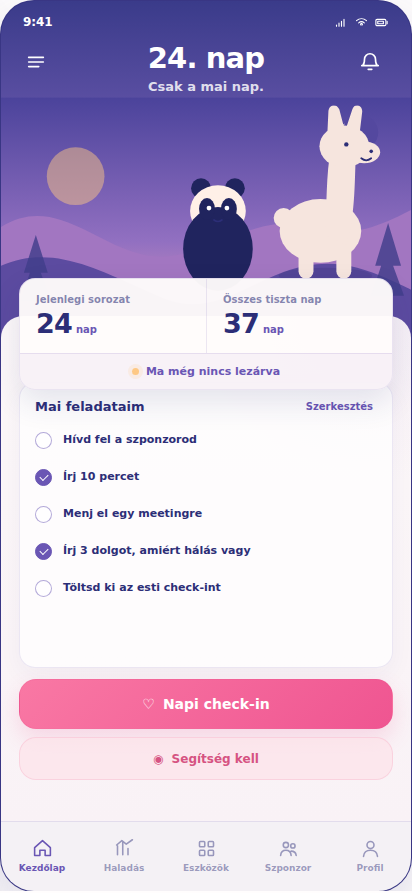
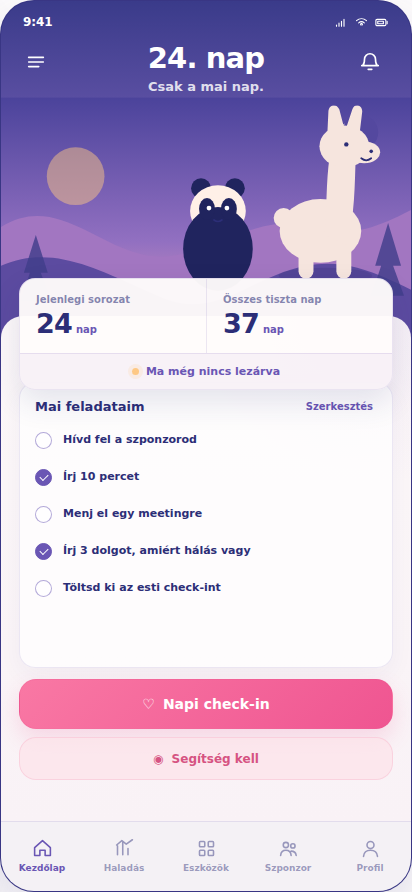
fix: strengthen Hajnal prototype semantics and evidence

diff --git a/docs/prototypes/hajnal_ui.html b/docs/prototypes/hajnal_ui.html
@@ -67,6 +67,12 @@
       color: inherit;
     }
 
+    button:focus-visible,
+    input:not(.native-control):focus-visible {
+      outline: 3px solid rgba(106, 86, 180, .62);
+      outline-offset: 3px;
+    }
+
     .prototype-page {
       min-width: max-content;
       padding: 48px 48px 88px;
@@ -75,10 +81,10 @@
     .prototype-brand {
       width: min(980px, calc(100vw - 96px));
       min-width: 720px;
-      display: grid;
-      grid-template-columns: 112px minmax(0, 1fr);
-      align-items: center;
-      gap: 28px;
+      display: flex;
+      flex-direction: column;
+      align-items: flex-start;
+      gap: 18px;
       margin-bottom: 34px;
     }
 
@@ -186,6 +192,15 @@
 
     .screen-label strong {
       color: var(--hajnal-navy);
+    }
+
+    .screen-route-note {
+      margin-left: auto;
+      color: rgba(44, 46, 119, .52);
+      font-size: 10px;
+      letter-spacing: 0;
+      text-transform: none;
+      white-space: nowrap;
     }
 
     .screen-index {
@@ -512,19 +527,6 @@
       z-index: 2;
     }
 
-    .splash-route-note {
-      position: absolute;
-      z-index: 9;
-      left: 50%;
-      bottom: 30px;
-      transform: translateX(-50%);
-      color: rgba(255, 255, 255, .78);
-      font-size: 11px;
-      font-weight: 700;
-      letter-spacing: .03em;
-      white-space: nowrap;
-    }
-
     .welcome-screen {
       display: flex;
       flex-direction: column;
@@ -671,6 +673,14 @@
       pointer-events: none;
     }
 
+    .choice-row:has(.native-control:focus-visible),
+    .consent-row:has(.native-control:focus-visible),
+    .toggle-row:has(.native-control:focus-visible),
+    .task-row:has(.native-control:focus-visible) {
+      outline: 3px solid rgba(106, 86, 180, .62);
+      outline-offset: 2px;
+    }
+
     .checkbox-visual,
     .radio-visual {
       width: 23px;
@@ -815,7 +825,13 @@
       display: grid;
       place-items: center;
       justify-self: center;
+      padding: 0;
+      border: 0;
       border-radius: 50%;
+      background: transparent;
+      color: inherit;
+      font: inherit;
+      cursor: pointer;
     }
 
     .calendar-day.muted {
@@ -998,13 +1014,23 @@
       margin-top: 4px;
       padding: 0;
       border: 0;
-      outline: 0;
       background: transparent;
       color: var(--hajnal-navy);
       font-size: 12px;
       line-height: 1.25;
       font-weight: 680;
       text-align: left;
+    }
+
+    .compact-field:focus-within {
+      border-color: rgba(106, 86, 180, .56);
+      outline: 3px solid rgba(106, 86, 180, .42);
+      outline-offset: 1px;
+    }
+
+    .compact-field input:focus-visible,
+    .compact-field button:focus-visible {
+      outline: 0;
     }
 
     .sponsor-note {
@@ -1368,8 +1394,7 @@
 
       .prototype-brand {
         width: 700px;
-        grid-template-columns: 84px 1fr;
-        gap: 20px;
+        gap: 14px;
       }
 
       .prototype-brand img {
@@ -1477,7 +1502,7 @@
 
       <div class="screen-row" data-page="entry" data-root-screen="splash">
         <section class="screen-column" id="column-splash">
-          <div class="screen-label"><span class="screen-index">1</span><strong>Splash</strong></div>
+          <div class="screen-label"><span class="screen-index">1</span><strong>Splash</strong><span class="screen-route-note">Automatikus · 2–3 mp</span></div>
           <article class="phone-screen screen-splash" id="splash" data-screen="splash" data-transition-delay="2000-3000" data-first-use-target="onboarding" data-returning-target="home">
             <div class="status-bar">
               <span>9:41</span>
@@ -1521,7 +1546,6 @@
               </g>
               <use href="#character-llama" x="242" y="177" width="112" height="180" />
             </svg>
-            <span class="splash-route-note">Automatikus továbblépés · 2–3 mp</span>
           </article>
         </section>
 
@@ -1636,13 +1660,13 @@
                   <strong>Július 2026</strong>
                   <button type="button" aria-label="Következő hónap"><svg class="icon" aria-hidden="true" style="transform:rotate(180deg)"><use href="#icon-back"></use></svg></button>
                 </div>
-                <div class="calendar-grid" aria-hidden="true">
+                <div class="calendar-grid" aria-label="2026. júliusi naptár">
                   <span class="weekday">H</span><span class="weekday">K</span><span class="weekday">Sze</span><span class="weekday">Cs</span><span class="weekday">P</span><span class="weekday">Szo</span><span class="weekday">V</span>
-                  <span class="calendar-day muted">29</span><span class="calendar-day muted">30</span><span class="calendar-day">1</span><span class="calendar-day">2</span><span class="calendar-day">3</span><span class="calendar-day">4</span><span class="calendar-day">5</span>
-                  <span class="calendar-day">6</span><span class="calendar-day">7</span><span class="calendar-day">8</span><span class="calendar-day">9</span><span class="calendar-day">10</span><span class="calendar-day">11</span><span class="calendar-day">12</span>
-                  <span class="calendar-day">13</span><span class="calendar-day">14</span><span class="calendar-day">15</span><span class="calendar-day">16</span><span class="calendar-day">17</span><span class="calendar-day selected">18</span><span class="calendar-day">19</span>
-                  <span class="calendar-day">20</span><span class="calendar-day">21</span><span class="calendar-day">22</span><span class="calendar-day">23</span><span class="calendar-day">24</span><span class="calendar-day">25</span><span class="calendar-day">26</span>
-                  <span class="calendar-day">27</span><span class="calendar-day">28</span><span class="calendar-day">29</span><span class="calendar-day">30</span><span class="calendar-day">31</span><span class="calendar-day muted">1</span><span class="calendar-day muted">2</span>
+                  <button class="calendar-day muted" type="button" data-action="select-calendar-date" data-date="2026-06-29" aria-label="2026. június 29.">29</button><button class="calendar-day muted" type="button" data-action="select-calendar-date" data-date="2026-06-30" aria-label="2026. június 30.">30</button><button class="calendar-day" type="button" data-action="select-calendar-date" data-date="2026-07-01" aria-label="2026. július 1.">1</button><button class="calendar-day" type="button" data-action="select-calendar-date" data-date="2026-07-02" aria-label="2026. július 2.">2</button><button class="calendar-day" type="button" data-action="select-calendar-date" data-date="2026-07-03" aria-label="2026. július 3.">3</button><button class="calendar-day" type="button" data-action="select-calendar-date" data-date="2026-07-04" aria-label="2026. július 4.">4</button><button class="calendar-day" type="button" data-action="select-calendar-date" data-date="2026-07-05" aria-label="2026. július 5.">5</button>
+                  <button class="calendar-day" type="button" data-action="select-calendar-date" data-date="2026-07-06" aria-label="2026. július 6.">6</button><button class="calendar-day" type="button" data-action="select-calendar-date" data-date="2026-07-07" aria-label="2026. július 7.">7</button><button class="calendar-day" type="button" data-action="select-calendar-date" data-date="2026-07-08" aria-label="2026. július 8.">8</button><button class="calendar-day" type="button" data-action="select-calendar-date" data-date="2026-07-09" aria-label="2026. július 9.">9</button><button class="calendar-day" type="button" data-action="select-calendar-date" data-date="2026-07-10" aria-label="2026. július 10.">10</button><button class="calendar-day" type="button" data-action="select-calendar-date" data-date="2026-07-11" aria-label="2026. július 11.">11</button><button class="calendar-day" type="button" data-action="select-calendar-date" data-date="2026-07-12" aria-label="2026. július 12.">12</button>
+                  <button class="calendar-day" type="button" data-action="select-calendar-date" data-date="2026-07-13" aria-label="2026. július 13.">13</button><button class="calendar-day" type="button" data-action="select-calendar-date" data-date="2026-07-14" aria-label="2026. július 14.">14</button><button class="calendar-day" type="button" data-action="select-calendar-date" data-date="2026-07-15" aria-label="2026. július 15.">15</button><button class="calendar-day" type="button" data-action="select-calendar-date" data-date="2026-07-16" aria-label="2026. július 16.">16</button><button class="calendar-day" type="button" data-action="select-calendar-date" data-date="2026-07-17" aria-label="2026. július 17.">17</button><button class="calendar-day selected" type="button" data-action="select-calendar-date" data-date="2026-07-18" aria-label="2026. július 18., kiválasztva" aria-current="date" aria-pressed="true">18</button><button class="calendar-day" type="button" data-action="select-calendar-date" data-date="2026-07-19" aria-label="2026. július 19.">19</button>
+                  <button class="calendar-day" type="button" data-action="select-calendar-date" data-date="2026-07-20" aria-label="2026. július 20.">20</button><button class="calendar-day" type="button" data-action="select-calendar-date" data-date="2026-07-21" aria-label="2026. július 21.">21</button><button class="calendar-day" type="button" data-action="select-calendar-date" data-date="2026-07-22" aria-label="2026. július 22.">22</button><button class="calendar-day" type="button" data-action="select-calendar-date" data-date="2026-07-23" aria-label="2026. július 23.">23</button><button class="calendar-day" type="button" data-action="select-calendar-date" data-date="2026-07-24" aria-label="2026. július 24.">24</button><button class="calendar-day" type="button" data-action="select-calendar-date" data-date="2026-07-25" aria-label="2026. július 25.">25</button><button class="calendar-day" type="button" data-action="select-calendar-date" data-date="2026-07-26" aria-label="2026. július 26.">26</button>
+                  <button class="calendar-day" type="button" data-action="select-calendar-date" data-date="2026-07-27" aria-label="2026. július 27.">27</button><button class="calendar-day" type="button" data-action="select-calendar-date" data-date="2026-07-28" aria-label="2026. július 28.">28</button><button class="calendar-day" type="button" data-action="select-calendar-date" data-date="2026-07-29" aria-label="2026. július 29.">29</button><button class="calendar-day" type="button" data-action="select-calendar-date" data-date="2026-07-30" aria-label="2026. július 30.">30</button><button class="calendar-day" type="button" data-action="select-calendar-date" data-date="2026-07-31" aria-label="2026. július 31.">31</button><button class="calendar-day muted" type="button" data-action="select-calendar-date" data-date="2026-08-01" aria-label="2026. augusztus 1.">1</button><button class="calendar-day muted" type="button" data-action="select-calendar-date" data-date="2026-08-02" aria-label="2026. augusztus 2.">2</button>
                 </div>
               </section>
               <fieldset class="date-choices" style="border:0;padding:0;margin-inline:0">

diff --git a/docs/prototypes/hajnal_ui_static_test.js b/docs/prototypes/hajnal_ui_static_test.js
@@ -7,6 +7,16 @@ const assert = require('node:assert/strict');
 const htmlPath = path.join(__dirname, 'hajnal_ui.html');
 const html = fs.existsSync(htmlPath) ? fs.readFileSync(htmlPath, 'utf8') : '';
 const group = process.argv[2] || 'all';
+const screenOrder = [
+  'splash',
+  'onboarding',
+  'information',
+  'start-date',
+  'recovery-goal',
+  'sponsor-setup',
+  'notifications',
+  'home'
+];
 
 function expectContains(value) {
   assert.ok(html.includes(value), `Missing ${value}`);
@@ -26,6 +36,34 @@ function expectOrdered(values) {
   }
 }
 
+function screenSlice(id) {
+  const screenIndex = screenOrder.indexOf(id);
+  assert.notEqual(screenIndex, -1, `Unknown screen: ${id}`);
+  const marker = `data-screen="${id}"`;
+  const markerIndex = html.indexOf(marker);
+  assert.notEqual(markerIndex, -1, `Missing screen marker: ${id}`);
+  const start = html.lastIndexOf('<article', markerIndex);
+  const nextId = screenOrder[screenIndex + 1];
+  if (!nextId) return html.slice(start);
+  const nextMarkerIndex = html.indexOf(`data-screen="${nextId}"`, markerIndex + marker.length);
+  const end = html.lastIndexOf('<article', nextMarkerIndex);
+  return html.slice(start, end);
+}
+
+function expectScreenContains(id, values) {
+  const screen = screenSlice(id);
+  values.forEach((value) => assert.ok(screen.includes(value), `${id} is missing ${value}`));
+}
+
+function pngSize(filename) {
+  const buffer = fs.readFileSync(path.join(__dirname, 'verification', filename));
+  assert.equal(buffer.toString('ascii', 1, 4), 'PNG', `${filename} must be PNG`);
+  return {
+    width: buffer.readUInt32BE(16),
+    height: buffer.readUInt32BE(20)
+  };
+}
+
 function expectForbiddenPillAbsent(selector) {
   const escaped = selector.replace(/[.*+?^${}()|[\]\\]/g, '\\$&');
   const rule = new RegExp(`${escaped}\\s*\\{[^}]*border-radius:\\s*(?:999px|9999px|50%)`, 's');
@@ -43,8 +81,15 @@ const tests = {
     expectContains('data-source-reference="docs/references/source-of-truth/logo.png"');
     expectContains('src="../references/source-of-truth/logo.png"');
     expectContains('class="prototype-brand"');
+    assert.match(
+      html,
+      /\.prototype-brand\s*\{[^}]*display:\s*flex;[^}]*flex-direction:\s*column/s,
+      'The page icon must sit above the short description'
+    );
     ['.soft-card', '.choice-row', '.primary-button', '.secondary-button', '.toggle-row']
       .forEach(expectForbiddenPillAbsent);
+    expectCount(/<img\b/g, 2, 'only the page logo and Splash logo may be raster images');
+    expectCount(/<img[^>]+source-of-truth\/logo\.png/g, 2, 'both raster images must be the Hajnal logo');
   },
 
   entry() {
@@ -71,6 +116,12 @@ const tests = {
     expectContains('data-returning-target="home"');
     expectContains('type="checkbox"');
     expectCount(/name="start-date"/g, 3, 'start-date choice count');
+    expectScreenContains('splash', ['Csak a mai nap.', 'data-transition-delay="2000-3000"']);
+    assert.ok(!/<button\b/.test(screenSlice('splash')), 'Splash must not contain a CTA');
+    expectScreenContains('onboarding', ['Kezdjük el', 'Már van fiókom']);
+    expectScreenContains('information', ['Elolvastam és elfogadom.', 'continue-information']);
+    expectScreenContains('start-date', ['Ma', 'Tegnap', 'Dátum kiválasztása']);
+    expectCount(/class="calendar-day[^\"]*"[^>]*type="button"/g, 35, 'semantic calendar date button count');
   },
 
   setup() {
@@ -101,6 +152,7 @@ const tests = {
       'Belépek a Hajnalba'
     ].forEach(expectContains);
     expectCount(/data-component="toggle-row"/g, 5, 'notification toggle row count');
+    expectCount(/class="switch"/g, 5, 'notification switch visual count');
   },
 
   home() {
@@ -129,7 +181,36 @@ const tests = {
     expectContains('aria-label="Értesítések"');
     expectContains('aria-hidden="true"');
     expectContains('<label');
+    expectContains('.native-control:focus-visible');
+    expectContains('.compact-field:focus-within');
+    expectContains('button:focus-visible');
+    assert.ok(!/class="calendar-grid"[^>]*aria-hidden="true"/.test(html), 'Calendar controls must be exposed to assistive technology');
     assert.ok(!/<div[^>]+role="button"/i.test(html), 'Use native button elements');
+  },
+
+  hierarchy() {
+    expectOrdered(screenOrder.map((id) => `data-screen="${id}"`));
+    const parents = {
+      onboarding: 'splash',
+      information: 'onboarding',
+      'start-date': 'onboarding',
+      'recovery-goal': 'onboarding',
+      'sponsor-setup': 'onboarding',
+      notifications: 'onboarding',
+      home: 'notifications'
+    };
+    Object.entries(parents).forEach(([id, parent]) => {
+      assert.ok(
+        screenSlice(id).includes(`data-parent-screen="${parent}"`),
+        `${id} must declare ${parent} as its parent`
+      );
+    });
+  },
+
+  visualEvidence() {
+    screenOrder.forEach((id) => {
+      assert.deepEqual(pngSize(`${id}.png`), { width: 412, height: 892 }, `${id} screenshot size`);
+    });
   }
 };
 

diff --git a/docs/acceptance/first_page_acceptance.md b/docs/acceptance/first_page_acceptance.md
@@ -16,21 +16,21 @@ The checklist must be re-read and updated before every prototype edit, review, t
 | HJN-DS-002 | All PNG references: cards, rows, inputs, CTA buttons | Shared web components | Rounded boxes remain boxes; no unintended pill styling. Pills occur only for reference-supported toggles, segmented controls, compact chips, and circular state controls | Selector/radius static tests plus screenshot review | DONE |
 | HJN-DS-003 | All PNG references: quiet surfaces | Shared web components | 1 px low-contrast lavender/blush borders, restrained shadows, large calm surfaces, and consistent spacing hierarchy match the references | CSS token inspection and screenshot review | DONE |
 | HJN-DS-004 | Specification §2 and all reference illustrations | Shared illustration components | Scenery uses flat geometric gradients; panda represents the user and llama represents supportive connection; no textured/cartoon-mimic style is introduced | SVG/component inspection and screenshot review | DONE |
-| HJN-PAGE-001 | User: page top contains icon and short description | Prototype page header | The project logo, Hajnal name, motto, and short prototype description appear above the first row, separate from phone screens | DOM inspection and screenshot | DONE |
+| HJN-PAGE-001 | User: page top contains icon and short description | Prototype page header | The project logo appears at the top with the Hajnal name, motto, and short prototype description beneath it, all separate from the first phone row | DOM inspection and screenshot | DONE |
 | HJN-NAV-001 | User-approved tree; specification §21 | First prototype row | Display order is exactly Splash → Onboarding → Tájékoztatás → Kezdődátum → Felépülési cél → Szponzor hozzáadása → Értesítések → Kezdőlap | DOM order assertion and screenshot | DONE |
 | HJN-NAV-002 | User: structure by page and child screens | Prototype grouping markup | The row exposes its root/child hierarchy in headings, labels, and semantic data attributes rather than presenting an unrelated flat category | DOM inspection and static assertions | DONE |
 | HJN-S01-001 | Specification §5, Screen 1; `logo.png`, `onboarding.png` | Splash component | Shows Hajnal logo, app name, and “Csak a mai nap.”; documents automatic transition after 2–3 seconds and first-use/returning branches without adding incorrect controls | Content assertion and screenshot comparison | DONE |
 | HJN-S02-001 | Specification §5, Screen 2; `onboarding.png` | Onboarding component | Shows “Nem kell 90 napot egyszerre végigcsinálnod. Csak a mait.” plus semantic “Kezdjük el” and “Már van fiókom” controls | Content/element assertions and screenshot comparison | DONE |
 | HJN-S03-001 | Specification §5, Screen 3; `onboarding.png` | Tájékoztatás component | Communicates all four safety/privacy points, provides an acceptance checkbox, and a semantic Tovább button | Content/control assertions and screenshot comparison | DONE |
-| HJN-S04-001 | Specification §5, Screen 4; `onboarding.png` | Kezdődátum component | Presents Ma, Tegnap, and Dátum kiválasztása; explains check-in confirmation semantics without silently confirming the day | Content/control assertions and screenshot comparison | DONE |
+| HJN-S04-001 | Specification §5, Screen 4; `onboarding.png` | Kezdődátum component | Presents Ma, Tegnap, and Dátum kiválasztása; calendar dates are semantic controls; explains check-in confirmation semantics without silently confirming the day | Content/control assertions and screenshot comparison | DONE |
 | HJN-S05-001 | Specification §5, Screen 5; `onboarding.png` | Felépülési cél component | Contains all seven optional recovery-goal choices and preserves an explicit skip path | Content/control count assertions and screenshot comparison | DONE |
 | HJN-S06-001 | Specification §5, Screen 6; `onboarding.png`, `sponzor_profil_beallitasok.png` | Szponzor hozzáadása component | Contains Igen, hozzáadom / Később / Nincs még and makes the five sponsor/contact detail capabilities discoverable without inventing a separate top-level screen | Content/control assertions and screenshot comparison | DONE |
 | HJN-S07-001 | Specification §5, Screen 7; `onboarding.png`, `sponzor_profil_beallitasok.png` | Értesítések component | Contains all five reminder controls, shows 21:00 as default evening check-in, and provides “Belépek a Hajnalba” | Content/control assertions and screenshot comparison | DONE |
 | HJN-S08-001 | Specification §6, Screen 8; `onboarding.png`, `designnkovetelmenyek.png` | Kezdőlap component | Shows day/motto/actions, daily illustration, streak/total/unclosed state, no more than five simultaneous tasks, visible check-in, and non-dominant one-tap panic entry | Content/control assertions and screenshot comparison | DONE |
-| HJN-WEB-001 | User: screens are web components and buttons become interactive later | All eight screens | Screens use reusable component classes/data attributes and real `button`, `input`, `label`, and `nav` elements; no screen is a flattened PNG | DOM/static assertions | DONE |
+| HJN-WEB-001 | User: screens are web components and buttons become interactive later | All eight screens | Screens use reusable component classes/data attributes and real `button`, `input`, `label`, and `nav` elements; calendar dates are buttons; no screen is a flattened PNG | Scoped DOM/static assertions and browser checks | DONE |
 | HJN-WEB-002 | Specification §25: clear back navigation; later interactivity | Screens 3–7 and Home shell | Applicable child screens have explicit semantic back affordances and stable action/state attributes | DOM/static assertions | DONE |
-| HJN-A11Y-001 | Semantic web-component requirement | All controls | Controls have accessible names, labels are associated with inputs, and decorative SVG is hidden from assistive technology | Static DOM assertions | DONE |
-| HJN-VERIFY-001 | Global and project instructions: screenshots are UI evidence | Browser verification artifacts | Exact-size screenshots are captured and compared against the relevant PNGs for shape category, palette, spacing, radii, hierarchy, and overflow | Browser screenshots and visual inspection | DONE |
+| HJN-A11Y-001 | Semantic web-component requirement | All controls | Controls have accessible names, labels are associated with inputs, decorative SVG is hidden from assistive technology, and every keyboard-focusable control has a visible focus indicator | Static assertions and browser focus checks | DONE |
+| HJN-VERIFY-001 | Global and project instructions: screenshots are UI evidence | Browser verification artifacts | Exact `412 × 892px` screenshots are captured and compared against the relevant PNGs for shape category, palette, spacing, radii, hierarchy, and overflow | Reproducible browser test, PNG dimension assertions, and visual inspection | DONE |
 
 ## Recorded reference conflict resolution
 
@@ -42,4 +42,5 @@ The checklist must be re-read and updated before every prototype edit, review, t
 
 - Android system capture was unavailable to the Termux application UID, so a temporary out-of-project Playwright/Chromium installation was used for browser-render evidence.
 - Chromium measured all eight phone components as exactly `412 × 892px` with `34px` outer radii and no internal content overflow.
-- Individual component screenshots and the full-row overview are stored in `docs/prototypes/verification/`; the accompanying `README.md` records the comparison results.
+- The reproducible browser test uses integer-aligned clips and independently asserts every committed screen PNG is exactly `412 × 892px`.
+- The same browser run verifies screen parentage/order, semantic calendar controls, accessible names, visible keyboard focus, radii, and internal overflow before refreshing the overview.

diff --git a/docs/prototypes/verification/README.md b/docs/prototypes/verification/README.md
@@ -4,9 +4,23 @@ Verification date: 2026-07-18.
 
 ## Rendering method
 
-The prototype was served over local HTTP and rendered with Chromium 140 through a temporary Playwright installation outside the project. The temporary browser dependency is not part of the Hajnal repository.
+The prototype was rendered with Chromium 140 through a temporary Playwright installation outside the project. The temporary browser dependency is not part of the Hajnal repository.
 
-Android's system `screencap` command was unavailable to the Termux application UID (`SurfaceFlinger` permission denial), so the Chromium element screenshots below are the canonical browser-render evidence.
+Android's system `screencap` command was unavailable to the Termux application UID (`SurfaceFlinger` permission denial), so the integer-clipped Chromium screenshots below are the canonical browser-render evidence.
+
+The committed `../hajnal_ui_browser_test.mjs` script checks screen order and parentage, semantic calendar buttons, control names, visible focus indicators, computed geometry, overflow, and PNG dimensions before updating the evidence images.
+
+Example isolated setup, without adding dependencies to the Hajnal project:
+
+```sh
+HAJNAL_VERIFY_DIR="$(mktemp -d)"
+npm install --prefix "$HAJNAL_VERIFY_DIR/node" playwright@1.55.0
+PLAYWRIGHT_BROWSERS_PATH="$HAJNAL_VERIFY_DIR/browsers" \
+  "$HAJNAL_VERIFY_DIR/node/node_modules/.bin/playwright" install chromium
+PLAYWRIGHT_BROWSERS_PATH="$HAJNAL_VERIFY_DIR/browsers" \
+HAJNAL_PLAYWRIGHT_MODULE="file://$HAJNAL_VERIFY_DIR/node/node_modules/playwright/index.mjs" \
+  node docs/prototypes/hajnal_ui_browser_test.mjs
+```
 
 ## Geometry result
 
@@ -23,7 +37,7 @@ Chromium measured every `.phone-screen` element directly:
 | Értesítések | 412 px | 892 px | 34 px | none |
 | Kezdőlap | 412 px | 892 px | 34 px | none |
 
-For every screen, `scrollHeight === clientHeight` and `scrollWidth === clientWidth` after accounting for the 1 px phone border.
+For every screen, `scrollHeight === clientHeight` and `scrollWidth === clientWidth` after accounting for the 1 px phone border. Every committed individual PNG is independently asserted to be exactly `412 × 892px`.
 
 ## Visual comparison result
 
@@ -35,6 +49,7 @@ The eight component screenshots were compared directly with `onboarding.png`, `d
 - The three scenic screens use flat geometric layers and a recognizable panda/llama pair without texture.
 - The Home screen keeps the scenic hero, two-part metrics card, five tasks, check-in/support actions, and the five-destination bottom navigation within the viewport.
 - The full-page overview confirms the required root/child ordering and the icon-plus-description header above the row.
+- The Splash transition annotation stays in the external prototype label rather than appearing inside product UI.
 
 ## Evidence
 
